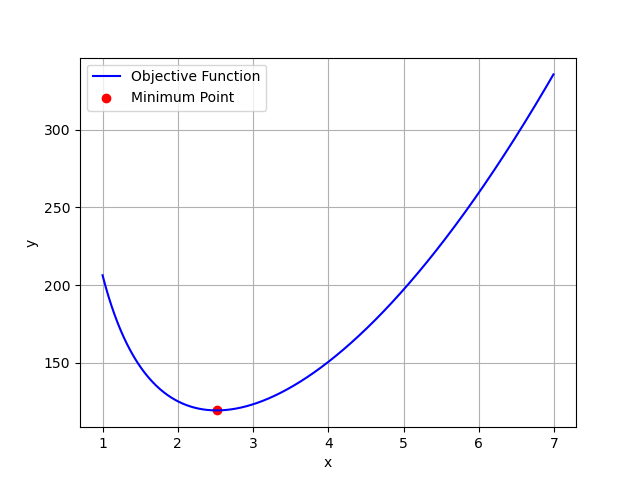
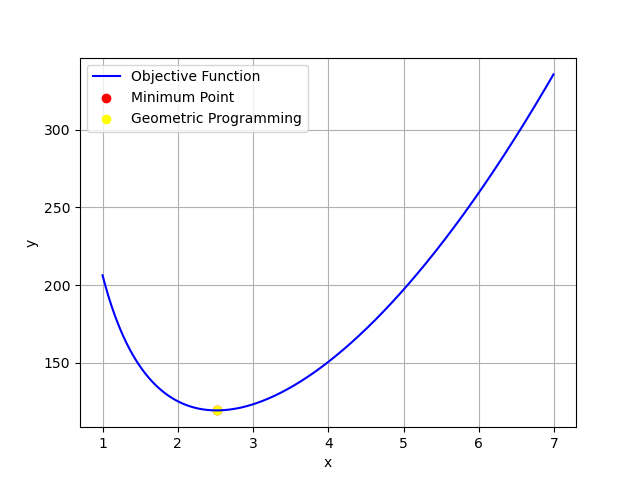
added geometric programming

Changed region(s): [[0.125, 0.2188, 0.5, 0.2812], [0.3125, 0.8438, 0.3438, 0.875]]

diff --git a/D.E/Q6/codes/pcode.py b/D.E/Q6/codes/pcode.py
@@ -1,4 +1,5 @@
 import numpy as np
+import cvxpy as cp
 import matplotlib.pyplot as plt
 import os
 import ctypes
@@ -50,9 +51,37 @@ dll.free_memory(points, n)
 
 x=2 #resetting value of x
 min_x = dll.gradientDescent(h, mu, x, tol, n)
-print("x-> ", min_x)
+
+print("Results obtained by Gradient Descent Theorem:")
+print("minimum value of radius ", min_x)
 min_area = (200/min_x) + (2*np.pi*min_x*min_x)
 plt.scatter(min_x, min_area, color = 'r', label='Minimum Point' )
+
+
+'''GEOMETRIC PROGRAMMING'''
+
+
+# Define the variables
+x1 = cp.Variable(pos=True)  # x1 > 0
+
+# Defining the objective function
+objective = cp.Minimize(200 / x1 + 2 * np.pi * x1**2)
+
+# Defining the problem
+problem = cp.Problem(objective)
+
+# Solving the problem
+problem.solve(gp=True)  # Solve as a geometric program
+
+# Display the results
+print("Results obtained by Geometric Programming:")
+print(f"Minimized radius value: {x1.value}")
+print(f"Minimum Surface Area value: {problem.value}")
+
+min_area_gp = (200 / x1.value) + (2*np.pi*x1.value*x1.value)
+
+plt.scatter(x1.value , min_area_gp, color = 'yellow', label='Geometric Programming')
+
 
 #Plot related settings
 plt.xlabel("x")

diff --git a/D.E/Q6/main.tex b/D.E/Q6/main.tex
@@ -97,9 +97,13 @@ Final Difference Equation comes out to be,
 \begin{align}
   r_{n+1} = r_n\brak{1 - 4\pi} + \frac{200}{r_n^2} 
 \end{align}
-Taking inital guess as $2$, step size $0.01$, tolerence as $0.0001$. 
+Taking inital guess as $2$, step size $0.01$, tolerence as $0.0001$.\newline
 We get minimum value of $r$ to be $2.515397787094116 cm \approx \brak{\frac{50}{\pi}}^{\frac{1}{3}} cm$
 
+\textbf{Alternate Computational Solution: }\newline
+
+We can also solve it using $cvxpy$ module in python. On running the code we get,\newline
+Minimum value of $r$ is, $2.515299390016942 cm$, Minimum surface area is, $ 119.26542080485049 cm^2$
 
 \begin{figure}[h!]
    \centering
